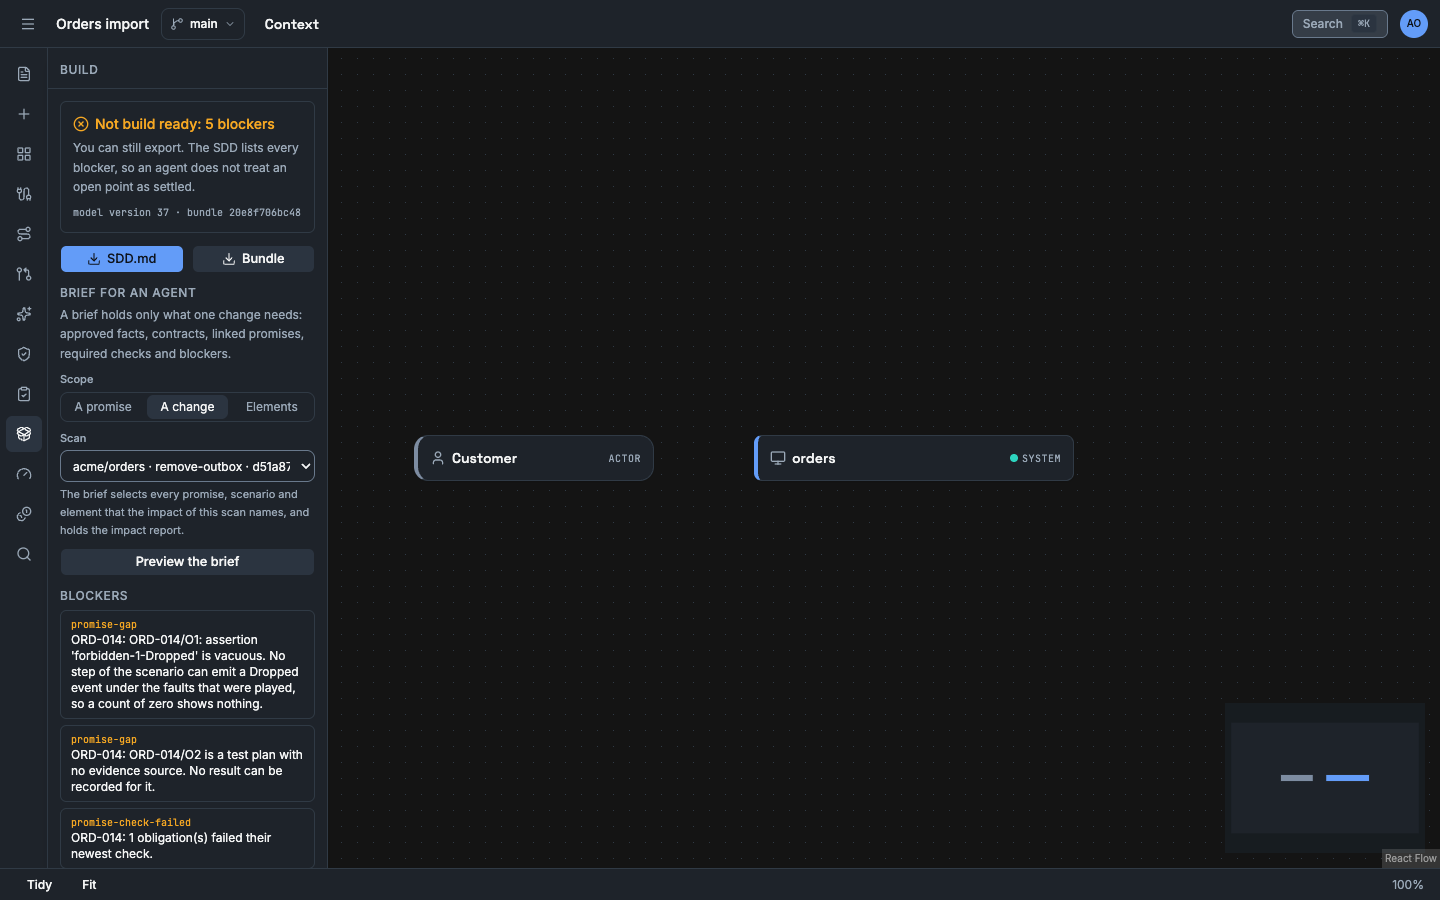
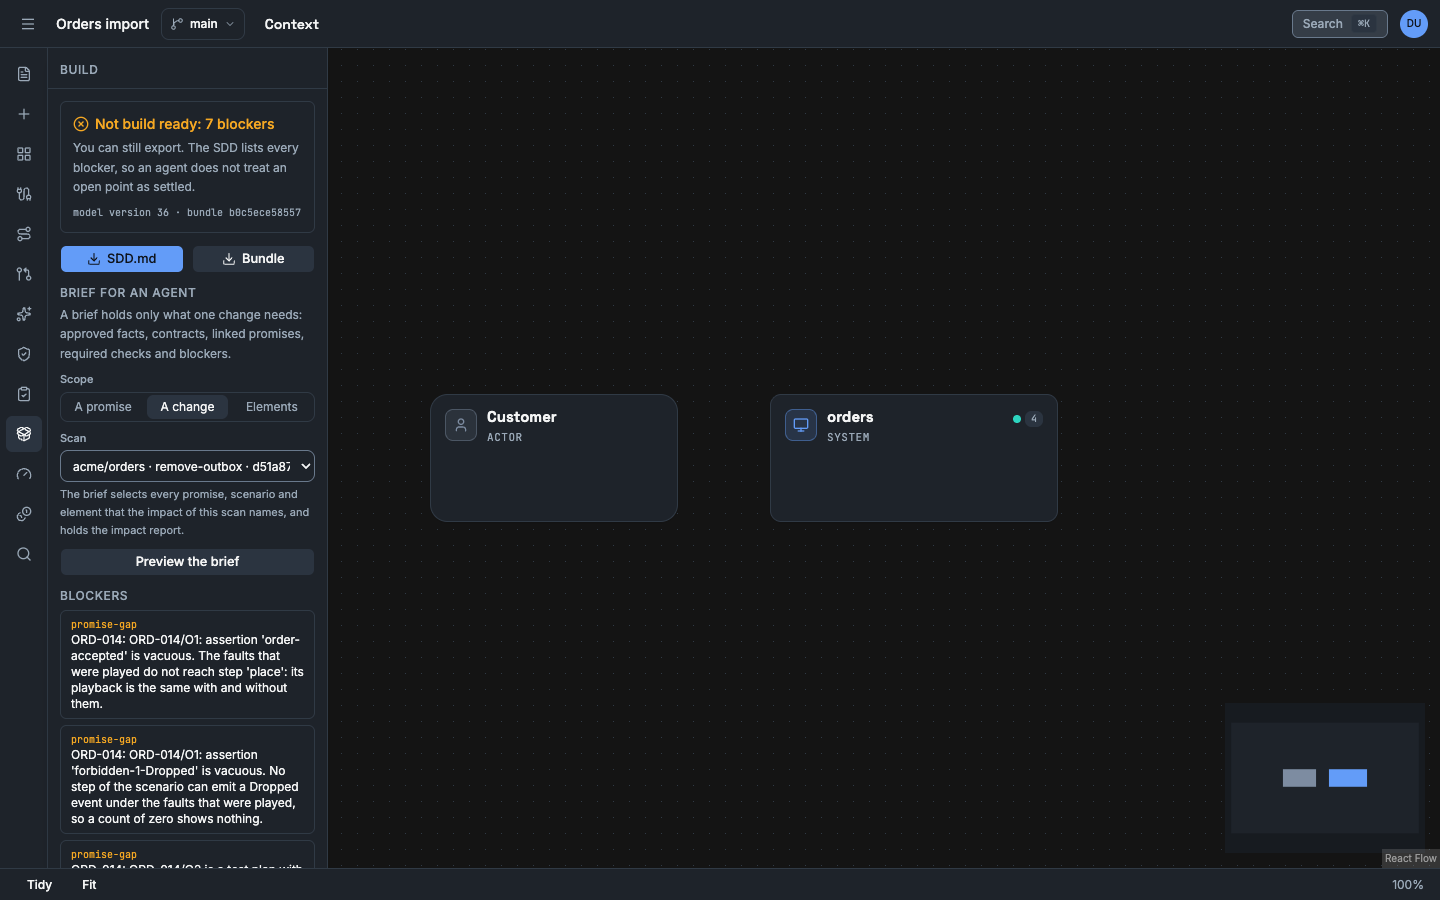
vellum: docs — screenshots retaken after the UI polish; README current

diff --git a/README.md b/README.md
@@ -4,8 +4,12 @@ Vellum is an architecture workbench that you host yourself. You draw a system, d
 its APIs and events, play a flow through it, and state promises that the design must keep.
 Vellum then gives a coding agent a specification to build from.
 
-**Status: work in progress, not released.** No version is tagged. The data format can
+**Status: work in progress, not released.** No version is published. The data format can
 change. Do not put it on a public address yet.
+
+![A scenario plays on the canvas. The trace dock at the bottom shows event 5 of 7: Billing fails to handle the message. The canvas rings Orders.Api and Billing in red inside the frame of the system orders.](site/src/assets/screenshots/trace-dock-playback.png)
+
+![The impact of pull request #1 on acme/orders. Each step of the flow Place an order has the label Definite or Possible and the source lines that give it.](site/src/assets/screenshots/impact-pull-request-steps.png)
 
 ## TL;DR
 
@@ -55,12 +59,14 @@ client for the agent interface.
 
 | Area | What you can do |
 |---|---|
-| Canvas | Add systems, apps, stores and actors. Connect them. Drill into a system. Search. Tidy the layout. |
+| Canvas | Add systems, apps, stores and actors. Connect them. Drill into a system: a frame shows the system around its children. Each card shows the kind, the technology and the description. Search. Tidy the layout. The detail panel has the tabs **Details** and **Connections**. |
 | Contracts | Declare operations, channels, subscriptions, bindings between channels, messages and JSON schemas. |
 | Trace | Write a scenario of calls, publishes and writes. Add faults. Play it step by step and read each payload. A trace shows the declared design. It does not run your code. |
 | Import | Scan a GitHub repository at one commit. Vellum reads .NET, Go, OpenAPI, AsyncAPI, Compose, Dockerfile and Kubernetes files, and proposes what it found with file and line. You accept or reject each proposal. |
 | Assistant | With an AI provider: ask for a flow or for model additions in words, review the proposal, then accept it. Additions get the label `inferred`. |
 | Promises | State a requirement with a stable ID such as `ORD-014`. An owner approves it. Checks give evidence for it, and a result goes stale when its inputs change. |
+| Impact | Scan a branch or a pull request and compare it with the ref that the model follows. Vellum labels each changed fact, flow step and promise `definite`, `possible` or `unknown`, and shows the steps on the canvas. A CI job can read a compact report and an opt-in gate. Vellum writes nothing to GitHub. |
+| Drafts and variants | Change the model in a draft, read the diff and merge it into main. Keep a variant next to main, save named revisions and compare two models. |
 | Review | 18 fixed rules report concerns about resilience, contracts, truth labels and needless complexity. Record a decision (ADR) to settle a finding. |
 | Build | Export a standalone `SDD.md` and a bundle with OpenAPI, AsyncAPI, scenarios and promises. The same model gives the same bytes. Vellum can check a bundle against its source. |
 | Agents | Create an agent token. A coding agent connects over MCP at `/mcp` and reads the model, proposes draft promises and exports the specification. A token cannot approve anything. |
@@ -72,16 +78,15 @@ client for the agent interface.
 
 - Imports and AI calls were tested against local stand-in servers only. No run against the
   real GitHub API or a real AI provider is recorded yet.
-- The newest parts (Review, Costs, Stress, the MCP tools) have automated tests. They have
-  not had an independent review yet.
 - Generated k6 load tests and measured results were run against a local stand-in service
   only, not against a deployed system.
-- The hosted, multi-tenant profile exists in the code. It is not ready for use.
-- Some features have no screen yet and work through the HTTP API only: drafts, revisions,
-  members, messages, schemas and the model export. The how-to guides say where.
-- The documentation site builds from `site/`. It is not published at a public address.
-- The CI workflows in `.github/workflows` are written and checked with `actionlint`. They
-  have not run on GitHub yet.
+- The hosted, multi-tenant profile ran behind a local TLS proxy with a self-signed
+  certificate only. No run used a real reverse proxy. Use the local profile for real work.
+- No run sent telemetry to a real OpenTelemetry collector.
+- Some actions have no control in the app and work through the HTTP API only: rename or
+  delete a project or a workspace, rename, move or delete a project document, manage
+  document spaces, set the kind of a relationship, and read the findings of a named
+  revision. The how-to guides say where.
 - There is no licence file yet.
 
 `PROGRESS.md` holds the exact state of each build step and the evidence for it.
@@ -112,14 +117,20 @@ cd src/Vellum.Web && npm install && npm run dev   # the web client, http://local
 Run the tests. The backend tests start Postgres in Docker.
 
 ```sh
-dotnet test Vellum.slnx
-cd src/Vellum.Web && npx vitest run
+just test          # the backend tests without Category=Slow
+just test-slow     # the backend tests that take long by design
+cd src/Vellum.Web && npx vitest run   # the web client tests
 ```
+
+CI (`.github/workflows/ci.yml`) runs on each push to `main` and on each pull request. The
+backend tests run in 6 shards at the same time, and the whole run takes about 3 minutes.
+The slow tests run each night, on a `v*` tag and on a manual start.
 
 `just check` is the gate before a commit: build, code style, lint, type checks, the docs
 build with its link check, and the docs snippet checks. It needs `just`, Node.js and Docker.
 
-Read the documentation as a site:
+The documentation is published at https://vellum-docs-5fy.pages.dev. Read it as a site on
+your machine:
 
 ```sh
 just docs          # live reload at http://localhost:4321

diff --git a/site/src/content/docs/tutorials/promise-loop.md b/site/src/content/docs/tutorials/promise-loop.md
@@ -307,13 +307,13 @@ In the app:
 1. Open **Import from GitHub**. Enter `acme/orders` in **Repository**. In **Read**, select **Branch** and enter `remove-outbox` in **Branch or tag**. Select **Scan repository**. To compare pull request #1 of the stand-in in place of the branch, select **Pull request #** and enter `1`: the impact is the same, and the scan cannot be followed.
 2. When the scan shows **Scan complete**, select **Impact** on it.
 3. Read **Changed in the source**. It has the changed schema and the changed message `OrderCreated`, and the line **Removed Transactional outbox**. Each line has the label **Definite**. Open a line to read the diff and the source lines.
-4. Read **Affected flows**. **Place an order** has one **Definite** reason: a step names the changed schema. It has one **Possible** reason: its steps run in the service of the outbox.
+4. Read **Affected flows**. **Place an order** has the label **Definite**. Each step shows its own label and its reasons. `publish-order-created` is **Definite**: it names the changed schema. The other steps are **Possible**: they run in the service of the outbox. **4 reasons for the flow** opens the reasons of the flow as a whole.
 5. Read **Affected promises**. `ORD-014` has the label **At risk**.
 6. Under **Gate**, select **Run checks against this scan**. It runs the source pattern checks of the approved promises against this commit. `ORD-014/O3` has the label **Failed**, and `ORD-014` has the label **Broken**. The scan read every file of the commit, so the absence of the pattern is established. The result is for this commit only: `ORD-014` keeps its result against `main`.
 7. Close the dialog. On the scan, select **Follow this ref**. This is what happens when the change is merged.
 8. Select **Impact** again and select **Run checks against this scan** again. The check has the label **Failed**, and `ORD-014` has the label **Broken**. The result now counts for the ref that the model follows.
 
-   ![The dialog Impact of remove-outbox on acme/orders. Changed in the source has three entries with the label Definite: the schema OrderCreated, the message OrderCreated and the removed pattern Transactional outbox. Affected flows has Place an order. Affected promises has ORD-014 with the label Broken, and ORD-014/O3 with the label Failed.](../../../assets/screenshots/impact-view.png)
+   ![The dialog Impact of remove-outbox on acme/orders, scrolled to the end. Affected flows lists the steps of Place an order: place, save-order, save-outbox and relay have the label Possible, and publish-order-created has the label Definite through the changed schema OrderCreated. Affected promises has ORD-014 with the label Broken, and ORD-014/O3 with the label Failed.](../../../assets/screenshots/impact-view.png)
 
 With the HTTP API:
 
@@ -375,7 +375,7 @@ With the HTTP API:
 
 5. In the app, open **Promises** and select **ORD-014**. The dialog shows the failed obligation with what it checked and against which commit. **Evidence gaps** lists what has no evidence.
 
-![The dialog of ORD-014 with its three obligations. ORD-014/O1 has the label Passed, with the faults played, the model version and the trace hash. ORD-014/O2 has the label Not run and the note that the plan names no evidence source. ORD-014/O3 has the label Failed against the tracking scan of remove-outbox.](../../../assets/screenshots/promise-obligations-results.png)
+![The dialog of ORD-014 with its three obligations. ORD-014/O1 has the label Passed, with the faults played, the model version, the trace hash and the two assertions that check nothing. ORD-014/O2 has the label Not run and the note that the plan names no evidence source. ORD-014/O3 has the label Failed against the tracking scan of remove-outbox. The texts name the scenario and the operation, not their IDs.](../../../assets/screenshots/promise-obligations-results.png)
 
 The scenario check still passes. The scenario is your declared design, and you did not change it. Vellum does not change a declared flow because the source changed. The source check is the evidence that the code no longer has what the promise needs.
 
@@ -408,7 +408,7 @@ In the app:
 3. Select **Preview the brief**. The dialog says **This scope is not build ready** and lists each blocker. Below, it shows the text of the brief.
 4. Select **Copy**, or select **Download**.
 
-![The Build flyout. The first box says Not build ready: 5 blockers and gives the model version and the bundle hash. Below Brief for an agent, the scope A change is selected with the scan of remove-outbox. The list Blockers starts below the button Preview the brief.](../../../assets/screenshots/build-flyout-brief.png)
+![The Build flyout. The first box says Not build ready: 7 blockers and gives the model version and the bundle hash. Below Brief for an agent, the scope A change is selected with the scan of remove-outbox. The list Blockers starts below the button Preview the brief.](../../../assets/screenshots/build-flyout-brief.png)
 
 The brief of a change has one more section, **8. Change under review**. It holds the impact report of the scan. The scope **A promise** gives the brief of the command below.
 

diff --git a/site/src/content/docs/how-to/trace-a-scenario.md b/site/src/content/docs/how-to/trace-a-scenario.md
@@ -18,6 +18,8 @@ A scenario can reference only contracts that exist in the model. A contract name
 5. Select a **Dead-letter channel** for the subscription. Without one, a message that fails every attempt is lost. Select **Add subscription**.
 6. When a producer publishes to an exchange or a topic and a consumer reads a queue, select **Bind to a channel** below the exchange or the topic. The button reads **Add binding** when the channel has a binding. In **Route to**, select the queue or the exchange to route to. Give **Routing key (optional)** only when the broker uses one. Select **Add binding**.
 
+To change an operation, a channel or a subscription, select the pencil button on its row. Change the fields and select **Save operation**, **Save channel** or **Save subscription**. Select **Cancel** to keep the old values.
+
 **Attempts** is a number from 1 to 10. A binding starts at an exchange or a topic and ends at a queue or an exchange.
 
 A scenario then publishes to the exchange, as the code does. The trace shows each binding that the message follows and each binding that it does not follow.
@@ -87,13 +89,14 @@ When a draft is open, the scenario plays against the contracts of the draft.
 The dock at the bottom of the canvas controls playback.
 
 - **Play** moves through the events in order. **Pause** stops. Select a speed: 0.5×, 1×, 2× or 4×.
-- **Previous event** and **Next event** move one event. **Restart** goes back to the moment before the first event.
+- **Previous event** and **Next event** move one event. **Restart** goes back to the moment before the first event. Hover over a button to see its name.
+- The counter shows **Event** *n* **of** *total* and the virtual time.
 - Select a tick on the timeline to go to that event.
-- The line below the timeline states the event in words. The box on the right shows its payload.
+- Below the timeline, **Event** states the event in words. **Payload** shows its payload.
 - The canvas shows a ring on the elements that take part, and an edge between them.
 - **Close trace** closes the dock.
 
-Each colour has one meaning: teal is a request, violet is a message, cyan is a data write, amber is a retry, red is a failure. Grey is a branch, a skipped step or a binding that the message does not follow. A failure tick is also taller, and a retry tick is thinner. With reduced motion on, the moving dot is hidden and nothing else changes.
+Each colour has one meaning: teal is a request, violet is a message, cyan is a data write, amber is a retry, red is a failure. Grey is a branch, a skipped step or a binding that the message does not follow. On the timeline, only the event in focus, the failures and the retries have their colour. The other ticks are grey. A played tick is stronger than a tick still to come. A failure tick is also taller, and a retry tick is thinner. With reduced motion on, the moving dot is hidden and nothing else changes.
 
 The dock always shows the line "Declared behaviour, not a measurement".
 
@@ -109,7 +112,7 @@ Add the failure in **Failures to inject** of the scenario editor. See [Failures 
 
 ![The lower part of the scenario editor. Failures to inject has one failure: the target Billing on order-events, the kind Error, and Fails set to every attempt. Expected results has a step outcome (place ends Succeeded) and an event count (exactly 2 deliveries for any part).](../../../assets/screenshots/scenario-editor-failure.png)
 
-![The trace dock at event 3 of 12 of a scenario with an outage of the channel order-events. The event reads: Orders.Api cannot publish OrderCreated to order-events, the channel is unavailable. The payload of the message is at the right. The canvas rings Orders.Api in red.](../../../assets/screenshots/trace-dock-playback.png)
+![The trace dock at event 5 of 7 of a scenario with an error injected on Billing. The canvas is inside the system orders. Event reads: Billing fails to handle the message, the consumer did not acknowledge the message. Payload reads: None. The dock says 1 of 2 expectations fail. The canvas rings Orders.Api and Billing in red, with the edge message · not handled between them. On the timeline only the event in focus and the failures have colour.](../../../assets/screenshots/trace-dock-playback.png)
 
 ## Limits
 

diff --git a/site/src/content/docs/how-to/check-change-impact.md b/site/src/content/docs/how-to/check-change-impact.md
@@ -222,11 +222,11 @@ Pull request #1 merges the branch `remove-outbox` into `main`. The branch delete
 2. Select **Impact**. **Changed in the source** has the line **Removed Transactional outbox** with the label **Definite** and the source lines of `main` where the registration was.
 3. Read **Affected flows**. In the flow **Place an order**, the step that publishes `OrderCreated` has the label **Definite**: it names the message whose schema changed. The steps that call `POST /orders` and write the order have the label **Possible**: they run in `orders-api`, the service of the outbox.
 
-   ![The dialog Impact of pull request #1 on acme/orders. The header gives #1 Remove the outbox, open, remove-outbox into main. Affected flows has Place an order with three steps: place and save-order with the label Possible, publish-order-created with the label Definite through the changed schema OrderCreated at asyncapi.yaml line 39.](../../../assets/screenshots/impact-pull-request-steps.png)
+   ![The dialog Impact of pull request #1 on acme/orders. The header gives #1 Remove the outbox, open, remove-outbox into main. Changed in the source has three entries with the label Definite. Affected flows has Place an order with three steps: place and save-order with the label Possible, publish-order-created with the label Definite through the changed schema OrderCreated at asyncapi.yaml line 39. Affected promises is empty.](../../../assets/screenshots/impact-pull-request-steps.png)
 
 4. Select **Show on canvas** and open the system `orders`. The line from `Orders.Api` to `Billing` is solid, with the label **3. OrderCreated · Definite**. The line from `Orders.Api` to `postgres` is dashed, with the label **2. postgres · orders · Possible**.
 
-   ![The canvas inside the system orders. Orders.Api and Billing have a solid ring and a solid line labelled 3. OrderCreated Definite. postgres has a dashed ring and a dashed line labelled 2. postgres orders Possible. The panel at the top lists the three steps with their labels.](../../../assets/screenshots/impact-steps-canvas.png)
+   ![The canvas inside the frame of the system orders. Orders.Api and Billing have a solid ring and a solid line labelled 3. OrderCreated Definite. postgres has a dashed ring and a dashed line labelled 2. postgres orders Possible. inventory-worker is dimmed. The panel at the top lists the three steps with their labels.](../../../assets/screenshots/impact-steps-canvas.png)
 
 5. Read **Affected promises**. A promise that requires the pattern has the label **At risk**.
 6. Select **Run checks against this scan**. The source pattern check of the promise is **Failed**: the scan read every file of the commit, and the outbox registration is gone. The promise is now **Broken** in this report. With the policy **Fail on a broken approved promise**, the gate is **Fail**.

diff --git a/site/src/content/docs/how-to/model-a-system.md b/site/src/content/docs/how-to/model-a-system.md
@@ -62,13 +62,15 @@ The import from GitHub and the assistant also add children when you accept their
 ## Edit an element
 
 1. Select the element. As an alternative, right-click it and select **Edit details**.
-2. In the detail panel, change **Name**, **Description**, **Technology**, **Status**, **Icon** or **Tags**.
+2. In the detail panel, on the tab **Details**, change **Name**, **Description**, **Technology**, **Status**, **Icon** or **Tags**.
+
+The tab **Connections** lists the relationships of the element, outgoing and incoming. Select a row to go to the other element. Select **Edit** on a row to open the relationship.
 
 **Status** is **Current**, **Planned** or **Deprecated**.
 
 To copy an element, right-click it and select **Duplicate**, or press `Ctrl+D` or `Cmd+D`.
 
-To delete an element, select **Delete element** in the detail panel, or right-click it and select **Delete**. Vellum refuses to delete an element when an operation, a channel, a message or a scenario names it or an element inside it. The answer is `409` and the message lists the references. Remove or reassign them first.
+To delete an element, select the **⋯** button in the header of the detail panel, then select **Delete element**. As an alternative, right-click the element and select **Delete**. Vellum refuses to delete an element when an operation, a channel, a message or a scenario names it or an element inside it. The answer is `409` and the message lists the references. Remove or reassign them first.
 
 To change more than one element, select two or more elements. The toolbar at the top shows the count as **selected**. Set the **Status**, enter a tag in **Add tag…** and press `Enter`, or select **Delete selected**.
 
@@ -81,7 +83,7 @@ To change more than one element, select two or more elements. The toolbar at the
 3. In the **Relationship** panel, enter a **Label** and a **Technology**.
 4. Set the **Line Style** to **Curved (Bezier)**, **Straight** or **Right-angle (Step)**.
 
-To delete it, select **Delete relationship** and confirm **Delete this relationship?**.
+To delete it, select the **⋯** button in the header of the panel, then select **Delete relationship**. Confirm **Delete this relationship?**.
 
 A relationship has a kind: `structural` or `behavioural`. A relationship that you draw is `structural`. The app has no control for the kind. To set it, send `kind` in `POST /api/projects/{projectId}/relationships`.
 

diff --git a/site/src/content/docs/how-to/stress-a-flow.md b/site/src/content/docs/how-to/stress-a-flow.md
@@ -65,7 +65,7 @@ To run a saved profile again, select **Run** on the profile in the list. To open
 The result shows these parts:
 
 - Headline numbers: throughput, latency percentiles, completed and failed flows, and the time to drain.
-- The bottleneck: each saturated resource with the reason, the time window and the numbers. When the rule names no resource, the result says so and gives the deepest queue next to its noise bound.
+- The bottleneck: each saturated resource with the reason, the time window and the numbers. When the rule names no resource, the result says so and gives the deepest queue next to its noise bound. The rule shows in one sentence. Select **Show the full rule** to read all of it.
 - Whether the queue of a saturated resource grows at the end of the arrivals. This is a separate statement.
 - A latency table for the flow, each operation and each subscription.
 - Utilisation, queue depth and counts for each element and each subscription. **Completed** is work that ended with success. **Wasted** and **Failed inside** are calls that held a worker and are not completed work.
@@ -76,7 +76,7 @@ The result shows these parts:
 
 Vellum stores the run. A profile keeps its 20 newest runs.
 
-![The result of a stress run, with the label Estimated on each part. The first line gives the profile version, the model version, the seed 42 and the result hash. The headline numbers are throughput 9.62 for each second, latency p50 and p95 of 25.0 ms and 529 completed flows. The part Bottleneck says that no resource is saturated by the rule.](../../../assets/screenshots/stress-result.png)
+![The result of a stress run, with the label Estimated on each part. The first line gives the profile version, the model version, the seed 42 and the result hash. The headline numbers are throughput 9.62 for each second, latency p50 and p95 of 40.0 ms and 529 completed flows. The part Bottleneck gives the rule in one sentence with the link Show the full rule, and says that no resource is saturated by the rule.](../../../assets/screenshots/stress-result.png)
 
 ## Compare two runs
 

diff --git a/site/src/content/docs/how-to/review-a-design.md b/site/src/content/docs/how-to/review-a-design.md
@@ -15,7 +15,7 @@ A finding says what the declared model shows. It is not evidence about a running
 2. Read the summary. It says how many findings block Build Ready.
 3. Read the list. The list shows concerns and unknowns first.
 
-![The Review flyout on the tab Findings. The summary says that 2 findings block Build Ready and gives the model version, the rule set and the hash of the findings. The group Blocking shows CON-001 for the operation POST /orders and TRU-001 for the element Customer, each with the button Settle with a decision.](../../../assets/screenshots/review-findings.png)
+![The Review flyout on the tab Findings. The summary says that 1 finding blocks Build Ready and gives the model version, the rule set and the hash of the findings. The group Blocking shows CON-001 for the operation POST /orders with the button Settle with a decision. The group Warning starts below it. The canvas at the right shows Customer and orders clear of the flyout.](../../../assets/screenshots/review-findings.png)
 
 Each finding has one of four results:
 

diff --git a/site/src/content/docs/tutorials/import-and-review.md b/site/src/content/docs/tutorials/import-and-review.md
@@ -110,7 +110,7 @@ The link **GitHub** on a source line opens the file on the web address of the re
 2. Right-click `orders` and select **Drill into**. The canvas shows `Orders.Api`, `Billing`, `inventory-worker` and `postgres`.
 3. Select **Contracts** in the left toolbar. **Operations**, **Channels** and **Subscriptions** list what you accepted.
 
-![The canvas at the level Context, orders. It shows the apps Billing, inventory-worker and Orders.Api and the store postgres. No line connects them.](../../../assets/screenshots/canvas-orders-system.png)
+![The canvas at the level Context, orders. A frame with the name orders holds the apps Billing (dotnet), inventory-worker (go) and Orders.Api (dotnet) and the store postgres. Each card shows its kind and its technology. No line connects them.](../../../assets/screenshots/canvas-orders-system.png)
 
 Three things are true about this model:
 
